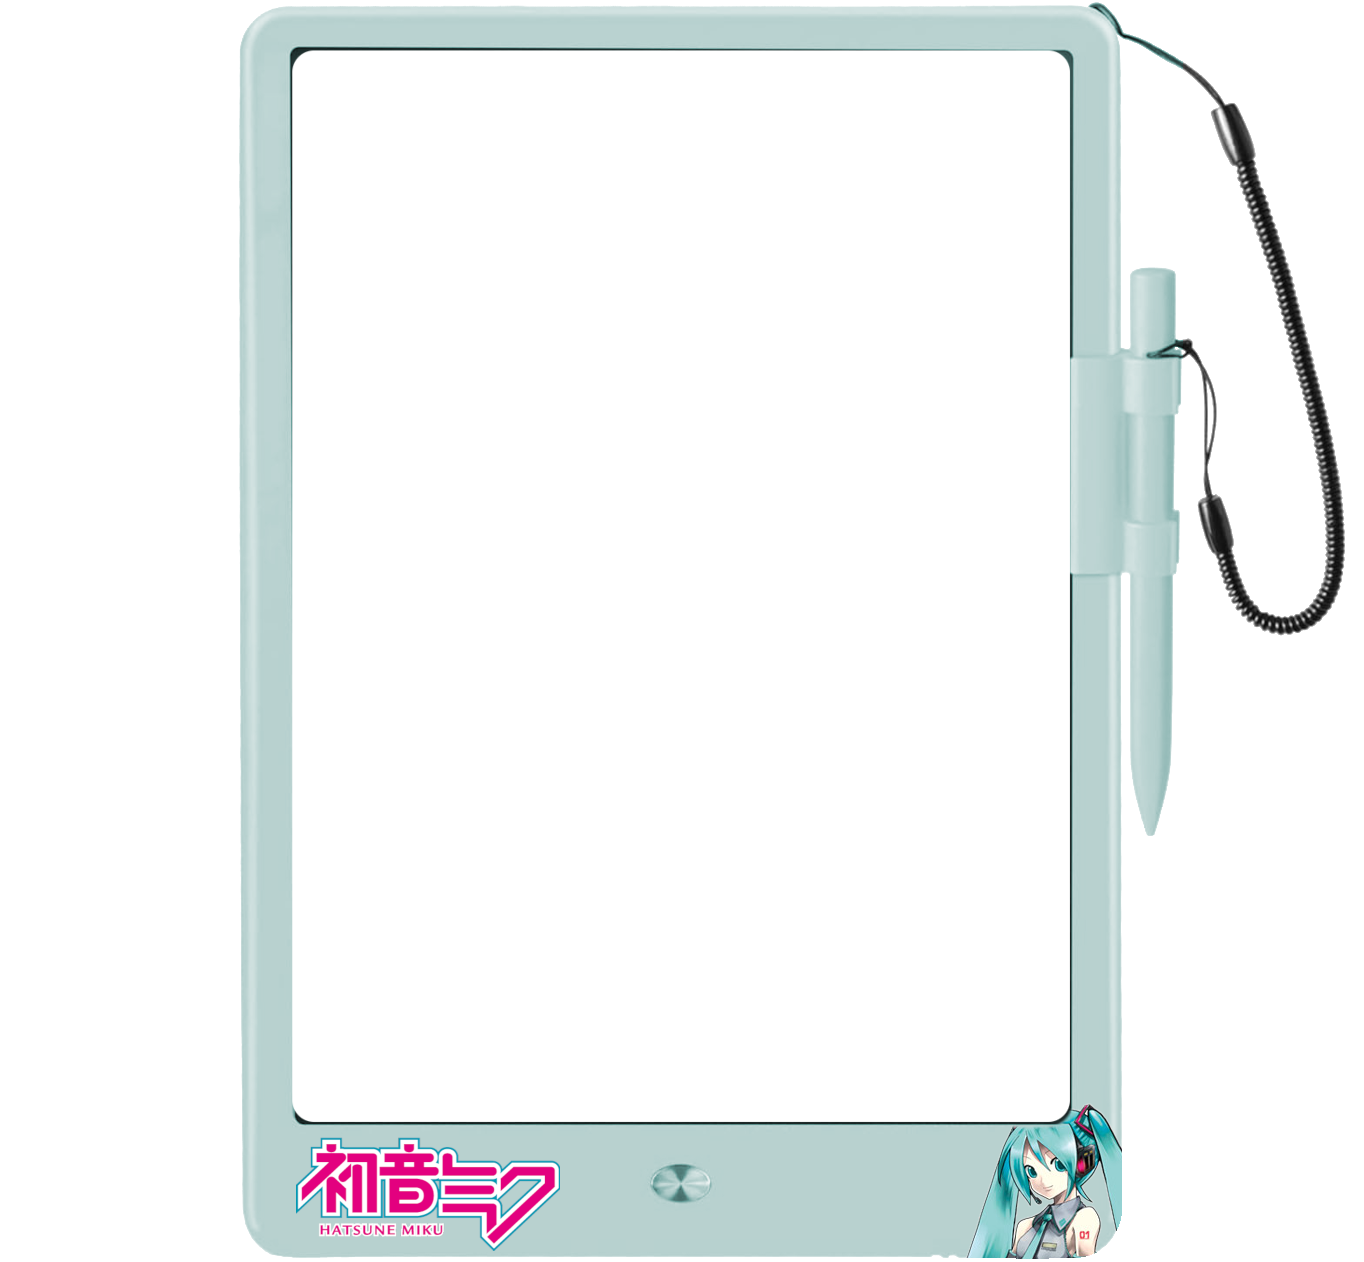
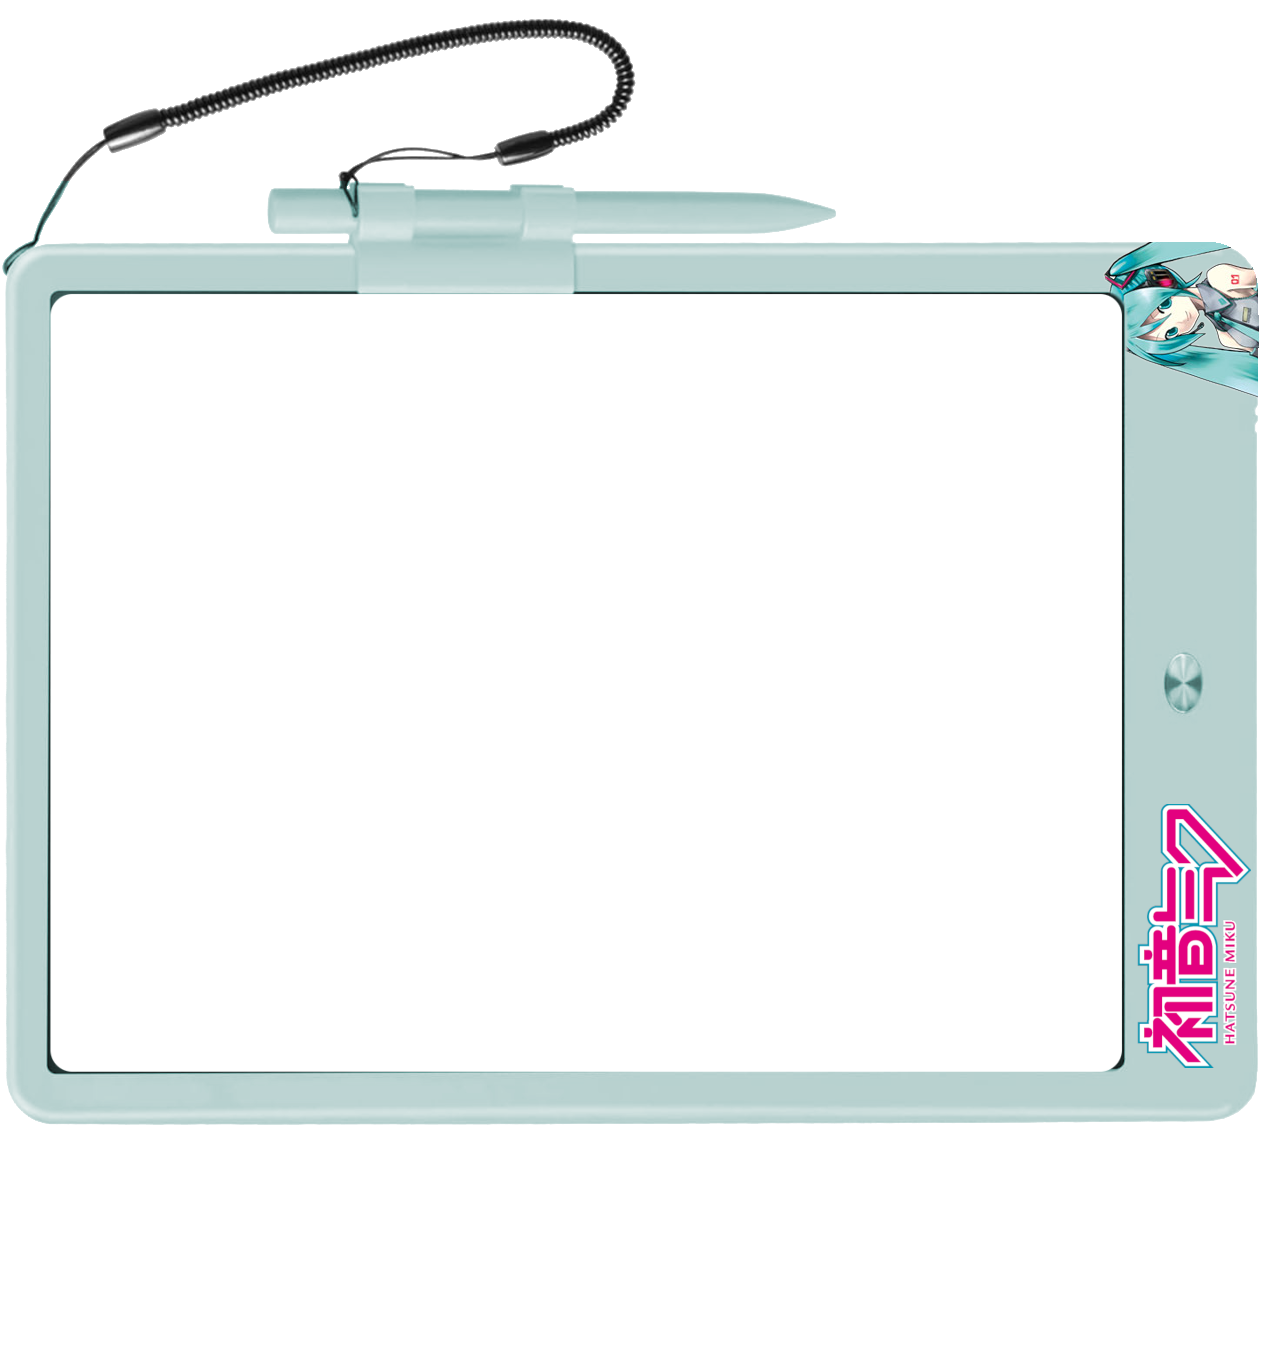
Landscape orientation

diff --git a/public/css/index.css b/public/css/index.css
@@ -99,32 +99,32 @@ body {
 /* CSS Masking CSS */
 
 #tabletContainer {
-  width: 1364px;
-  height: 1262px;
+  height: 1364px;
+  width: 1262px;
   position: relative;
   transform: scale(0.7);
 }
 
 #tabletFront {
-  width: 1364px;
+  height: 1364px;
   position: absolute;
   pointer-events: none;
 }
 
 #tabletMask {
-  width: 780px;
-  height: 1080px;
+  width: 1080px;
+  height: 780px;
   position: absolute;
-  top: 48px;
-  left: 290px;
+  left: 48px;
+  top: 290px;
 }
 
 #tabletBack {
-  width: 780px;
-  height: 1080px;
+  width: 1080px;
+  height: 780px;
   position: absolute;
-  top: 48px;
-  left: 290px;
+  left: 48px;
+  top: 290px;
 }
 
 svg {

diff --git a/public/index.html b/public/index.html
@@ -11,7 +11,7 @@
     <div id="container">
       <div id="tabletContainer">
         <img id = "tabletBack" src = "img/rainbow.jpeg">
-        <svg id = "tabletMask" width="780" height="1080" viewBox="0 0 780 1080">
+        <svg id = "tabletMask" width="1080" height="780" viewBox="0 0 1080 780">
             <defs>
                 <mask id="myText" width="100%" height="100%" x="0" y="0" >
                     <rect width="100%" height="100%" x="0" y="0" style="fill: white;"/>
